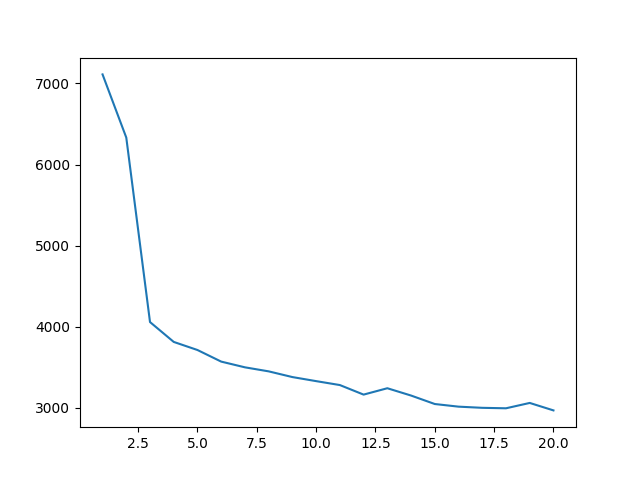
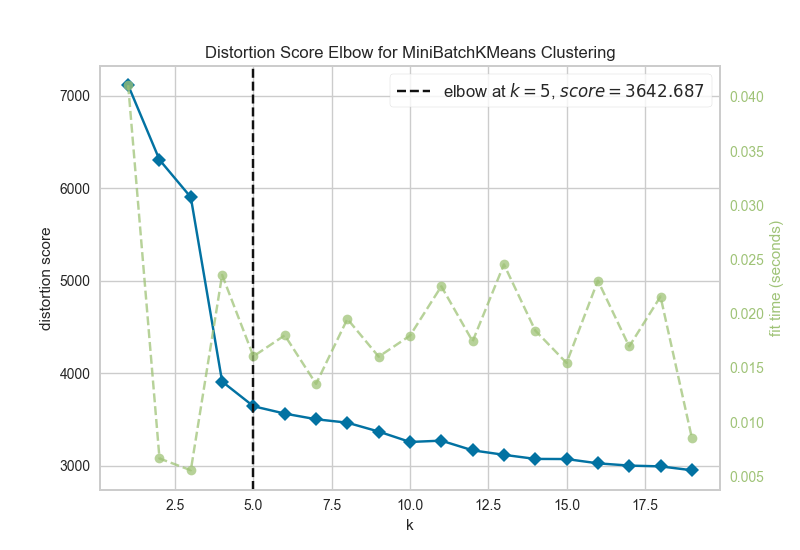
Aggiunta calcolo regola del gomito

diff --git a/code/unsupervised_learning.py b/code/unsupervised_learning.py
@@ -1,6 +1,8 @@
 from data_preprocessing import query_to_dataset, data_files, queries
 from sklearn.cluster import MiniBatchKMeans
+from yellowbrick.cluster import KElbowVisualizer
 import data_visualization
+import numpy as np
 
 
 def test_clustering(dataset, num_clusters):
@@ -19,11 +21,19 @@ def elbow_test(dataset, max_clusters):
     return inertias
 
 
+def elbow_test2(dataset, max_clusters):
+    kmeans = MiniBatchKMeans()
+    visualizer = KElbowVisualizer(kmeans, k = (1, max_clusters))
+    dataset = np.array(dataset)
+    visualizer.fit(dataset)
+    return visualizer
+
+
 def test_main():
     max_clusters = 20
     dataset = query_to_dataset(data_files["small_prolog"], queries["factors_all"])
-    inertias = elbow_test(dataset, max_clusters)
-    data_visualization.plot_elbow(max_clusters, inertias)
+    visualizer = elbow_test2(dataset, max_clusters)
+    data_visualization.plot_elbow(visualizer)
 
 def main():
     

diff --git a/code/data_visualization.py b/code/data_visualization.py
@@ -26,6 +26,5 @@ def plot_factors(factors, img_name = "test"):
     plt.savefig(f"imgs/{img_name}.png") 
 
 
-def plot_elbow(num_clusters, inertias):
-    plt.plot(range(1, num_clusters+1), inertias)
-    plt.savefig(f"imgs/elbow.png")
+def plot_elbow(visualizer):
+    visualizer.show(outpath = "imgs/elbow.png")
